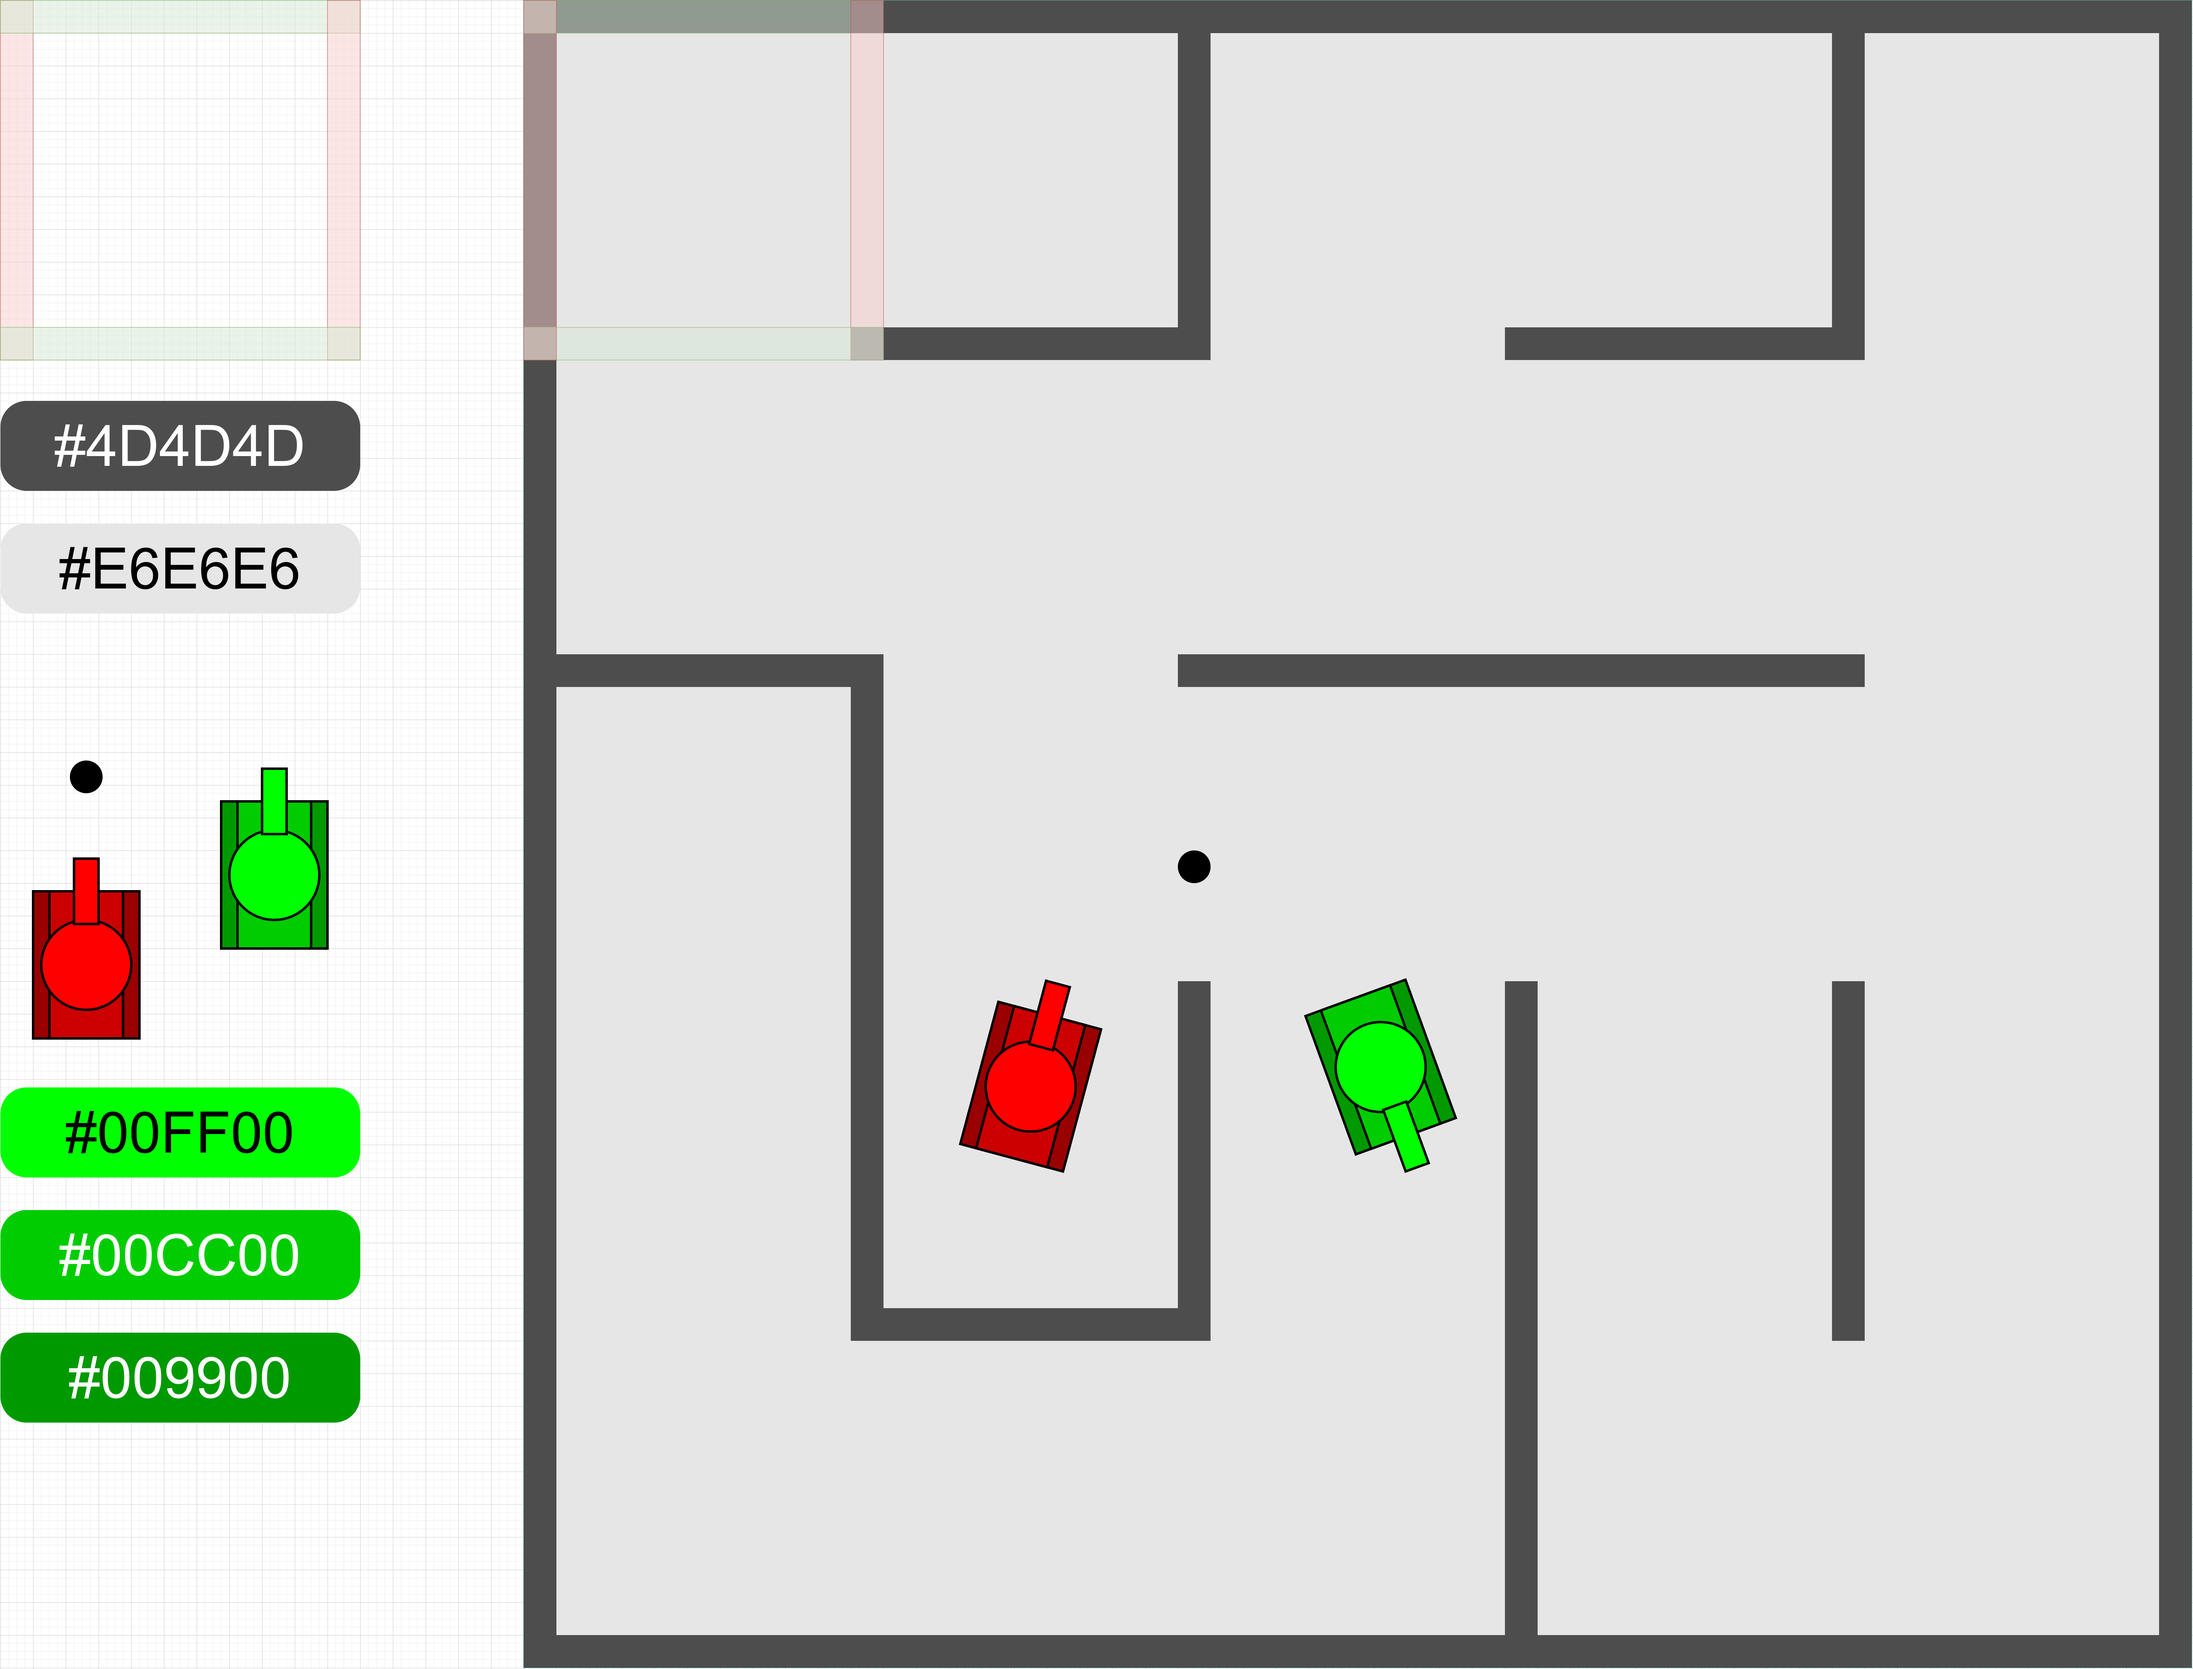
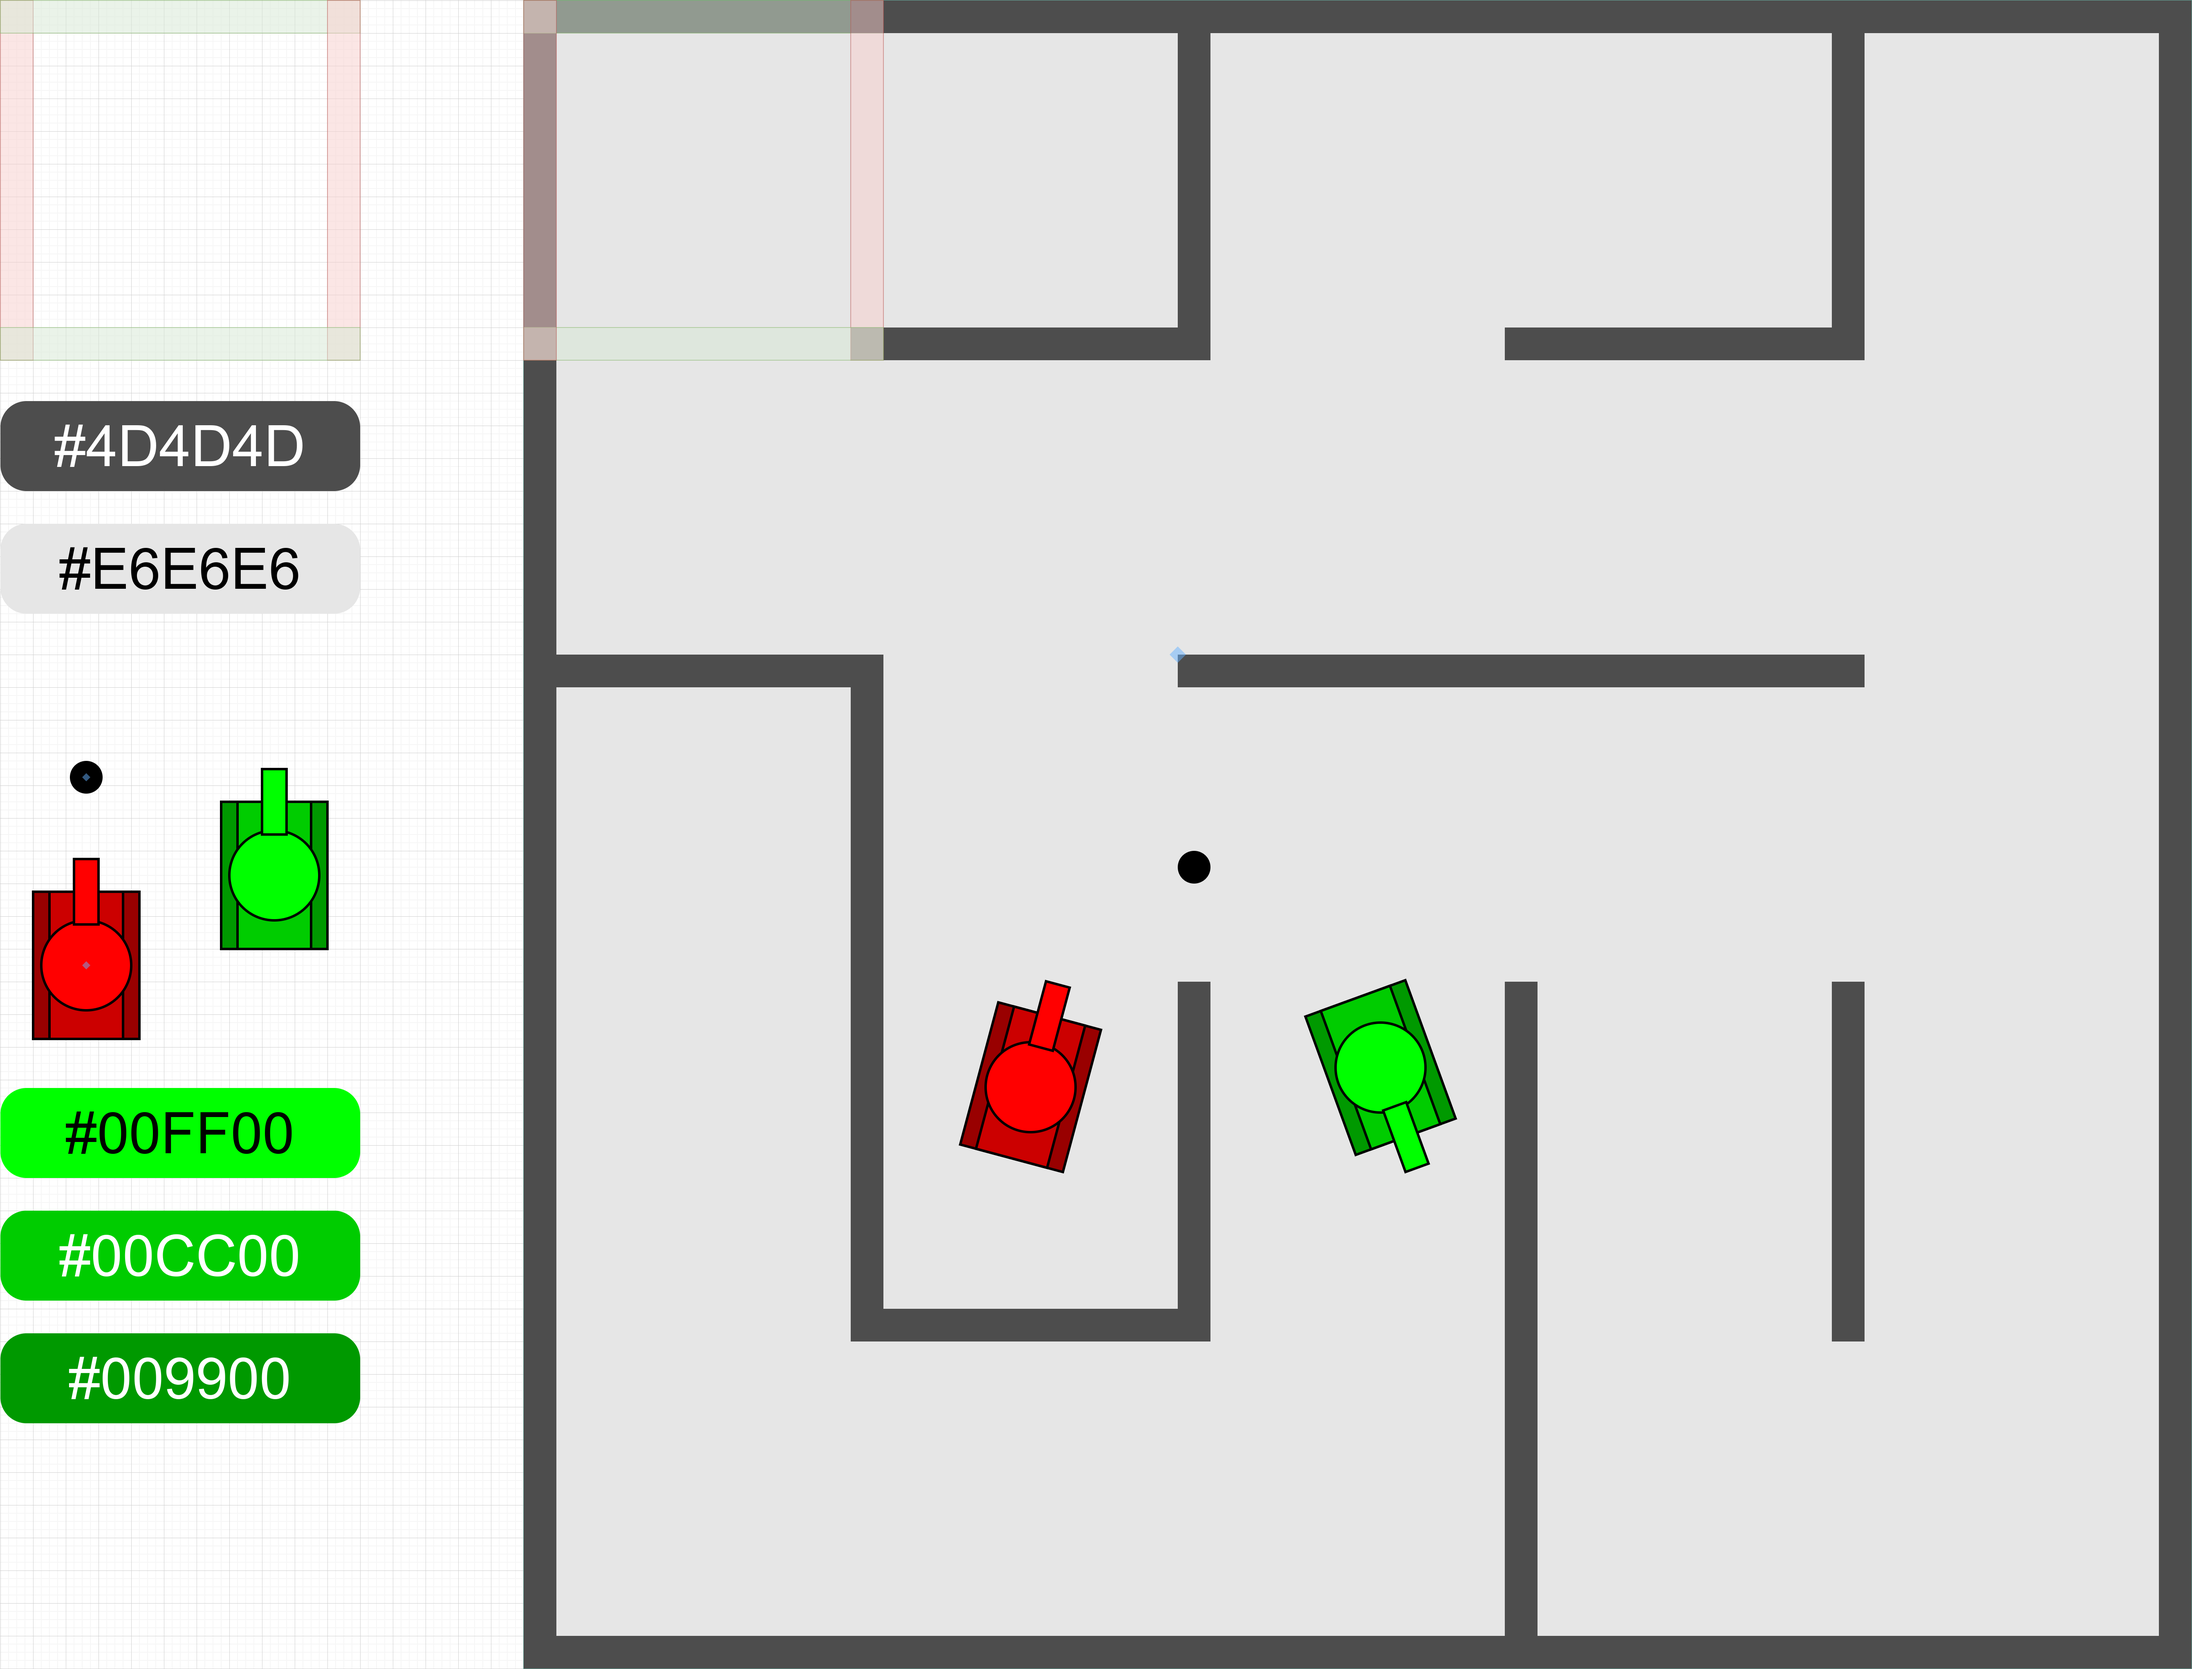
measured TankTrouble2's constants, improved operations, set pivots

Changed region(s): [[0.0, 0.0, 1.0, 1.0]]

diff --git a/scripts/simple_tank.js b/scripts/simple_tank.js
@@ -5,16 +5,9 @@ import { initCanvas,
        } from "./draw.js"
 import { sprite_map,
          genMap,
-         newTank,
-         newBullet } from "./objs.js"
+         newTank } from "./objs.js"
 import { collide,
-         step,
-         tankForward,
-         tankBackward,
-         tankStopMove,
-         tankSpinLeft,
-         tankSpinRight,
-         tankStopSpin } from "./dynamics.js"
+         step } from "./dynamics.js"
 
 function blit() {
     blitMap()
@@ -36,37 +29,40 @@ function refresh() {
 
     const tank2_id = newTank("assets/tank2.png")
 
+    const tank1 = sprite_map.get(tank1_id)
+    const tank2 = sprite_map.get(tank2_id)
+
     document.addEventListener("keydown", (event) => {
         switch (event.code) {
         case "ArrowUp":
-            tankForward(tank2_id)
+            tank2.forward = true
             break
         case "ArrowDown":
-            tankBackward(tank2_id)
+            tank2.backward = true
             break
         case "ArrowLeft":
-            tankSpinLeft(tank2_id)
+            tank2.leftspin = true
             break
         case "ArrowRight":
-            tankSpinRight(tank2_id)
+            tank2.rightspin = true
             break
         case "KeyM": // fire
-            newBullet(tank2_id)
+            tank2.fire = true
             break
         case "KeyE": // ESDF instead of WASD
-            tankForward(tank1_id)
+            tank1.forward = true
             break
         case "KeyD":
-            tankBackward(tank1_id)
+            tank1.backward = true
             break
         case "KeyS":
-            tankSpinLeft(tank1_id)
+            tank1.leftspin = true
             break
         case "KeyF":
-            tankSpinRight(tank1_id)
+            tank2.rightspin = true
             break
         case "KeyQ": // fire
-            newBullet(tank1_id)
+            tank2.fire = true
             break
         default:
         }
@@ -75,20 +71,28 @@ function refresh() {
     document.addEventListener("keyup", (event) => {
         switch (event.code) {
         case "ArrowUp":
+            tank2.forward = false
+            break
         case "ArrowDown":
-            tankStopMove(tank2_id)
+            tank2.backward = false
             break
         case "ArrowLeft":
-        case "ArrowRight":
-            tankStopSpin(tank2_id)
+            tank2.leftspin = false
             break
-        case "KeyE":
+        case "ArrowRight":
+            tank2.rightspin = false
+            break
+        case "KeyE": // ESDF instead of WASD
+            tank1.forward = false
+            break
         case "KeyD":
-            tankStopMove(tank1_id)
+            tank1.backward = false
             break
         case "KeyS":
+            tank1.leftspin = false
+            break
         case "KeyF":
-            tankStopSpin(tank1_id)
+            tank2.rightspin = false
             break
         default:
         }

diff --git a/scripts/maths.js b/scripts/maths.js
@@ -32,13 +32,13 @@ export const rotateAndTranslateBox = (box, angle, x, y) =>
 export const barrelBox = (tank) => rotateAndTranslateBox(
     [[-Constants.TANK_BARREL_WIDTH / 2, -Constants.TANK_HEIGHT / 2],
      [Constants.TANK_BARREL_WIDTH / 2, -Constants.TANK_HEIGHT / 2],
-     [-Constants.TANK_BARREL_WIDTH / 2, -Constants.TANK_BODY_BIAS[0]],
-     [Constants.TANK_BARREL_WIDTH / 2, -Constants.TANK_BODY_BIAS[0]]],
+     [-Constants.TANK_BARREL_WIDTH / 2, -Constants.TANK_HEIGHT_BIAS],
+     [Constants.TANK_BARREL_WIDTH / 2, -Constants.TANK_HEIGHT_BIAS]],
     tank.angle, tank.x, tank.y)
 
 export const bodyBox = (tank) => rotateAndTranslateBox(
-    [[-Constants.TANK_WIDTH / 2, -Constants.TANK_BODY_BIAS[0]],
-     [Constants.TANK_WIDTH / 2, -Constants.TANK_BODY_BIAS[0]],
-     [Constants.TANK_WIDTH / 2, Constants.TANK_BODY_BIAS[1]],
-     [-Constants.TANK_WIDTH / 2, Constants.TANK_BODY_BIAS[1]]],
+    [[-Constants.TANK_WIDTH / 2, -Constants.TANK_BODY_HEIGHT / 2],
+     [Constants.TANK_WIDTH / 2, -Constants.TANK_BODY_HEIGHT / 2],
+     [Constants.TANK_WIDTH / 2, Constants.TANK_BODY_HEIGHT / 2],
+     [-Constants.TANK_WIDTH / 2, Constants.TANK_BODY_HEIGHT / 2]],
     tank.angle, tank.x, tank.y)

diff --git a/scripts/commons.js b/scripts/commons.js
@@ -3,11 +3,12 @@
         |
         v
         y (h)
- */
+*/
+
 export const Display = {
     FPS: 60,
     TPS: 200, // ticks per second
-    CANVAS_WIDTH: 1920,
+    CANVAS_WIDTH: 1080,
     CANVAS_HEIGHT: 1080,
     CANVAS_PADDING: 50,
 }
@@ -18,17 +19,17 @@ export const Constants = {
     WALL_WIDTH: 1.0,
     WALL_HEIGHT: 11.0,
     BULLET_VELOCITY: 20 / Display.TPS, // 2 blocks per sec
-    BULLET_RADIUS: 0.5,
-    BULLET_INIT_TTL: 100000,
+    BULLET_RADIUS: 0.4,
+    BULLET_INIT_TTL: 10 * Display.TPS,
     TANK_WIDTH: 3.25,
     TANK_HEIGHT: 5.5,
     TANK_BARREL_WIDTH: 0.75,
     TANK_BARREL_HEIGHT: 1.0,
+    TANK_HEIGHT_BIAS: 3.25,
     TANK_BODY_HEIGHT: 4.5,
-    TANK_BODY_BIAS: [1.75, 2.75],
-    TANK_VELOCITY_FORWARD: 15 / Display.TPS,
-    TANK_VELOCITY_BACKWARD: -10 / Display.TPS,
-    TANK_SPIN_VELOCITY_ANG: 5 / Display.TPS, 
+    TANK_VELOCITY_FORWARD: 20 / Display.TPS,
+    TANK_VELOCITY_BACKWARD: -12.5 / Display.TPS,
+    TANK_SPIN_VELOCITY_ANG: -4.36 / Display.TPS, 
 }
 
 // https://stackoverflow.com/a/52171480

diff --git a/scripts/objs.js b/scripts/objs.js
@@ -49,9 +49,9 @@ export function newBullet(tank_id) {
     const tank = sprite_map.get(tank_id)
     const bullet = {
         id: randHash(),
-        x: tank.x + Math.sin(tank.angle) * (Constants.TANK_BODY_BIAS[0] +
+        x: tank.x + Math.sin(tank.angle) * (Constants.TANK_BODY_HEIGHT / 2 +
                                             Constants.BULLET_RADIUS),
-        y: tank.y + -Math.cos(tank.angle) * (Constants.TANK_BODY_BIAS[0] +
+        y: tank.y + -Math.cos(tank.angle) * (Constants.TANK_BODY_HEIGHT / 2 +
                                             Constants.BULLET_RADIUS),
         r: Constants.BULLET_RADIUS,
         vx: Math.sin(tank.angle) * Constants.BULLET_VELOCITY,
@@ -76,7 +76,12 @@ export function newTank(src) {
         v_ang: 0,
         type: "tank",
         img: img,
-        imgsrc: src
+        imgsrc: src,
+        forward: false,
+        backward: false,
+        leftspin: false,
+        rightspin: false,
+        fire: false
     }
     sprite_map.set(tank.id, tank)
     return tank.id

diff --git a/scripts/dynamics.js b/scripts/dynamics.js
@@ -32,6 +32,7 @@ export function collide() {
             if (hitter_deleted) break
             switch (hittee.type + "&" + hitter.type) {
             case "wall&tank":
+                
                 break
 
             case "wall&bullet":
@@ -98,6 +99,10 @@ export function step() {
     for (const [id, sprite] of sprite_map.entries()) {
         switch (sprite.type) {
         case "tank":
+            sprite.v_ang = (sprite.leftspin ^ sprite.rightspin) ?
+                Constants.TANK_SPIN_VELOCITY_ANG * (sprite.leftspin ? 1 : -1) : 0
+            sprite.v = sprite.forward * Constants.TANK_VELOCITY_FORWARD +
+                sprite.backward * Constants.TANK_VELOCITY_BACKWARD
             sprite.angle += sprite.v_ang
             sprite.x += sprite.v * Math.sin(sprite.angle)
             sprite.y += -sprite.v * Math.cos(sprite.angle)

diff --git a/scripts/draw.js b/scripts/draw.js
@@ -51,7 +51,7 @@ function drawTank(tank) {
     ctx.rotate(tank.angle)
     ctx.drawImage(tank.img,
                   -Constants.TANK_WIDTH / 2 * scale,
-                  -Constants.TANK_HEIGHT / 2 * scale,
+                  -Constants.TANK_HEIGHT_BIAS * scale,
                   Constants.TANK_WIDTH * scale,
                   Constants.TANK_HEIGHT * scale)
     ctx.restore()

diff --git a/README.md b/README.md
@@ -1,2 +1,5 @@
 # simple-tank
+
 Rewrite Tank Trouble 2
+
+- [swf from 7k7k](http://flash.7k7k.com/cms/cms10/20150714/1636512198/44/7.swf)
